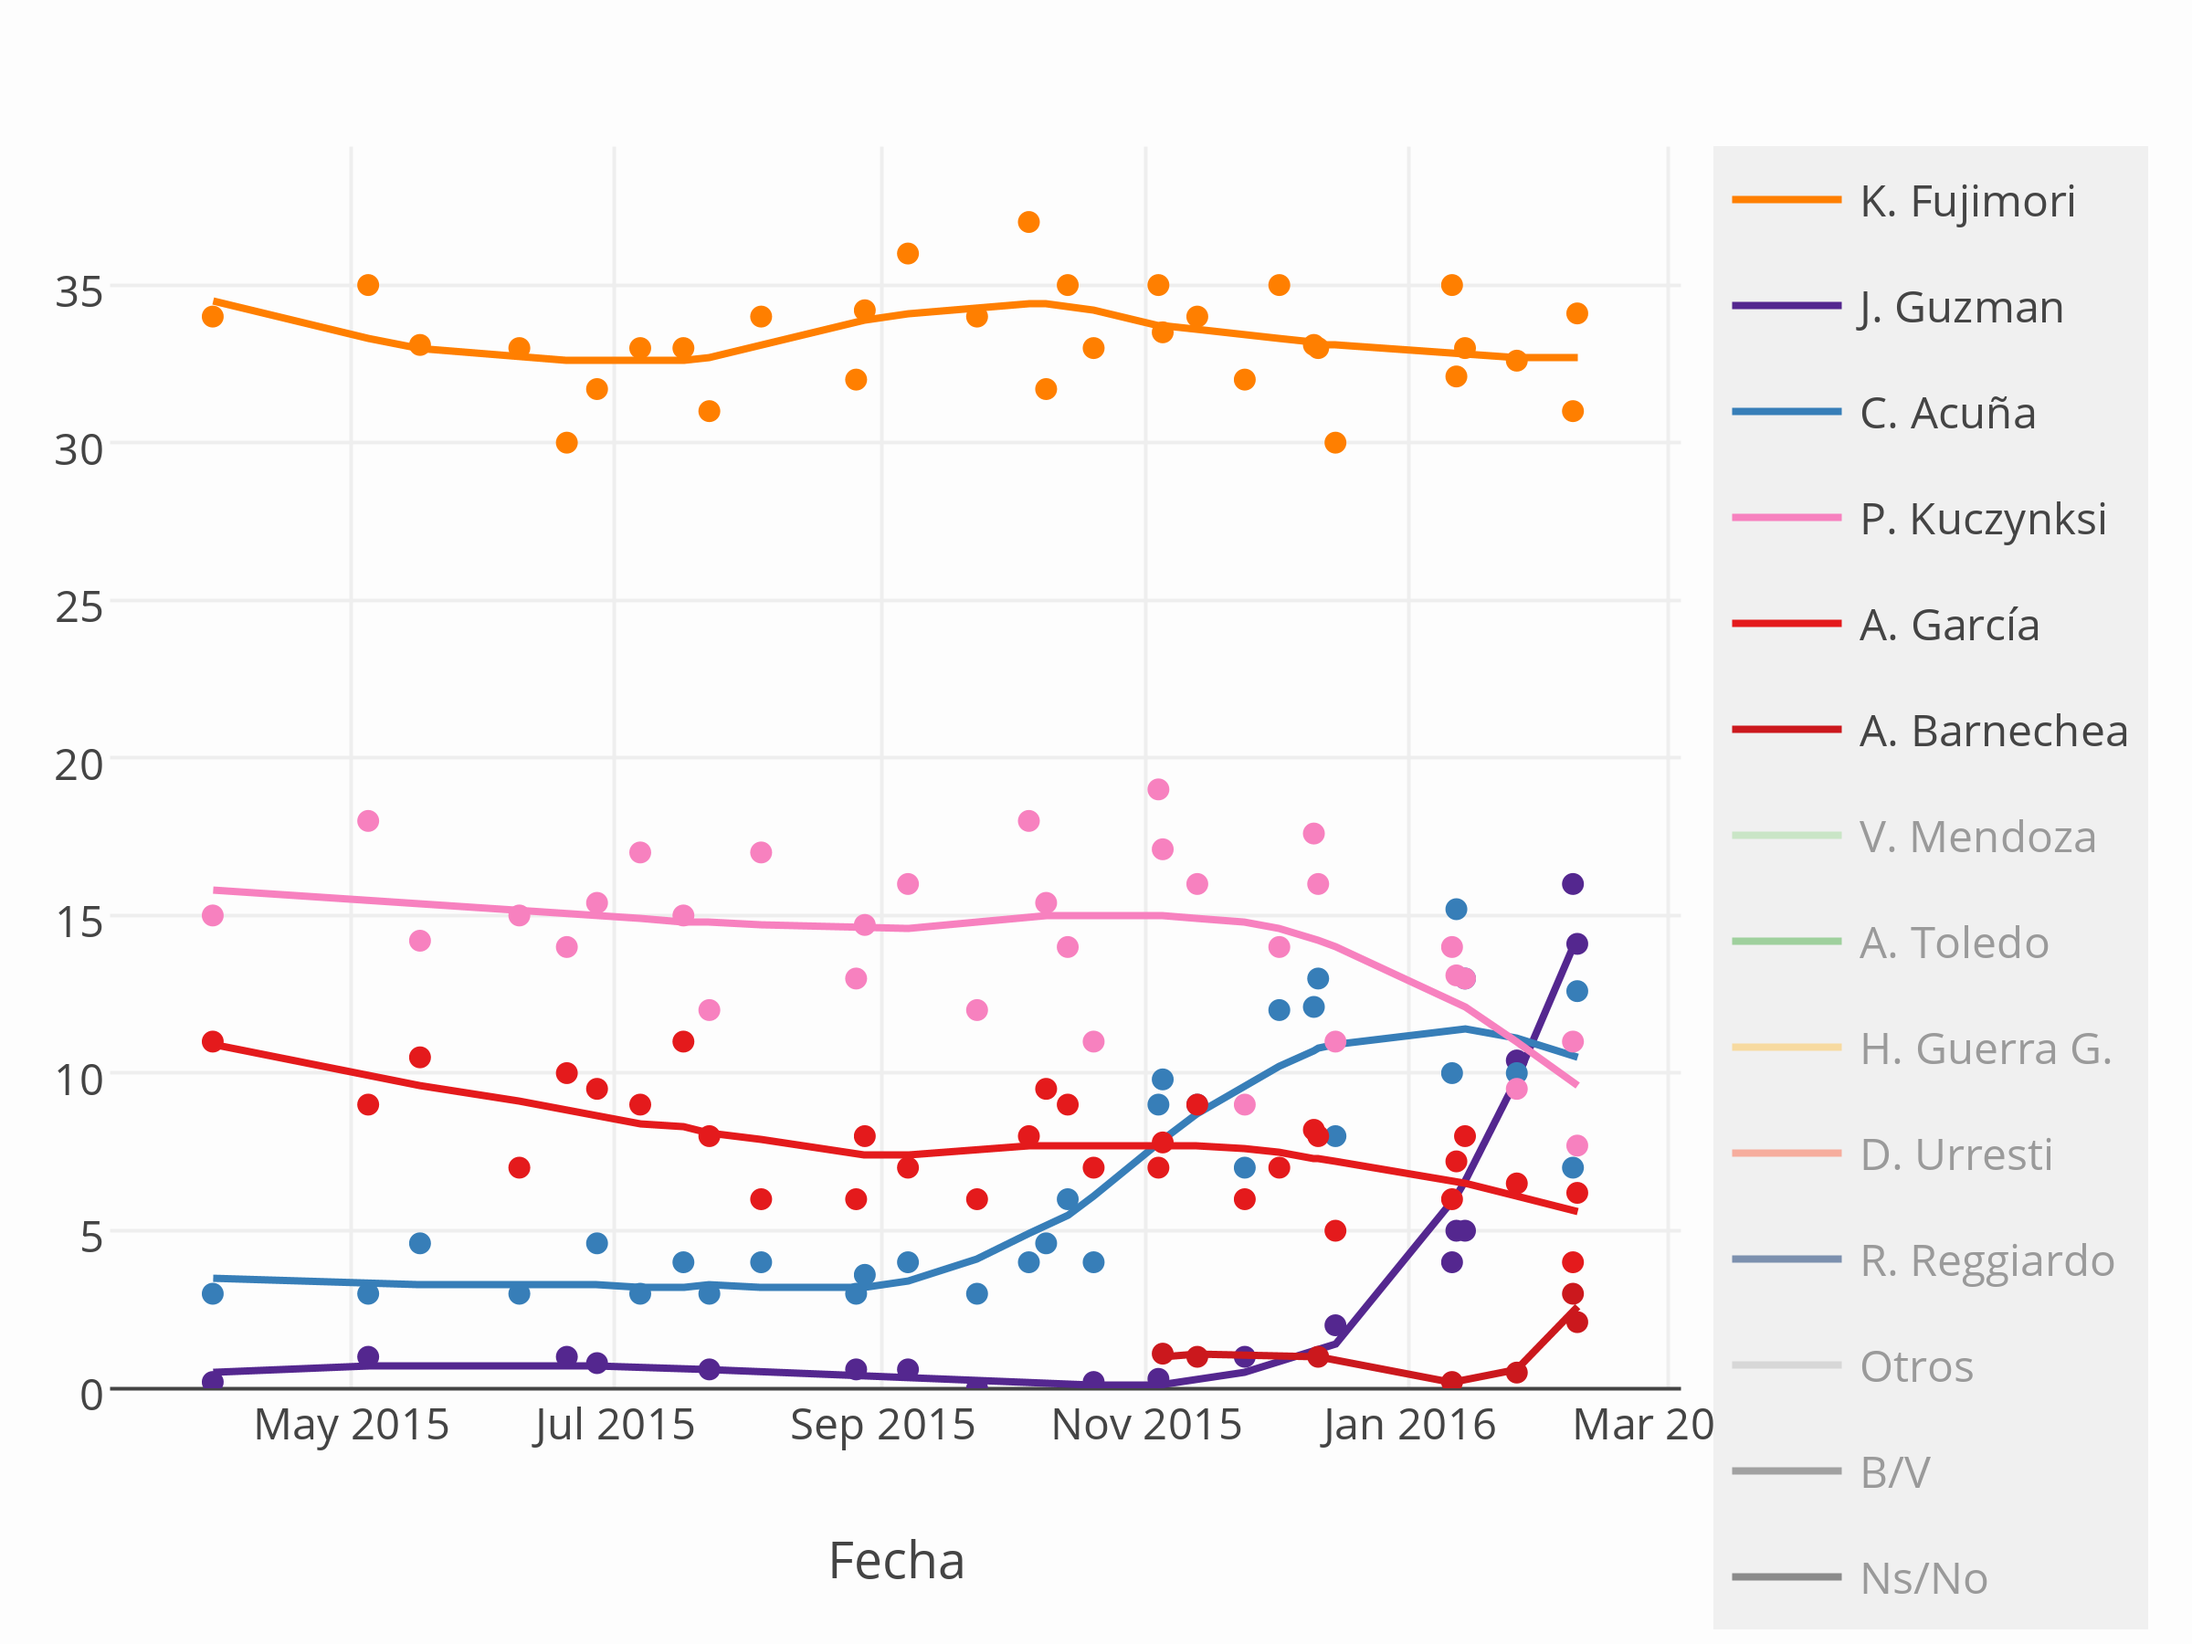
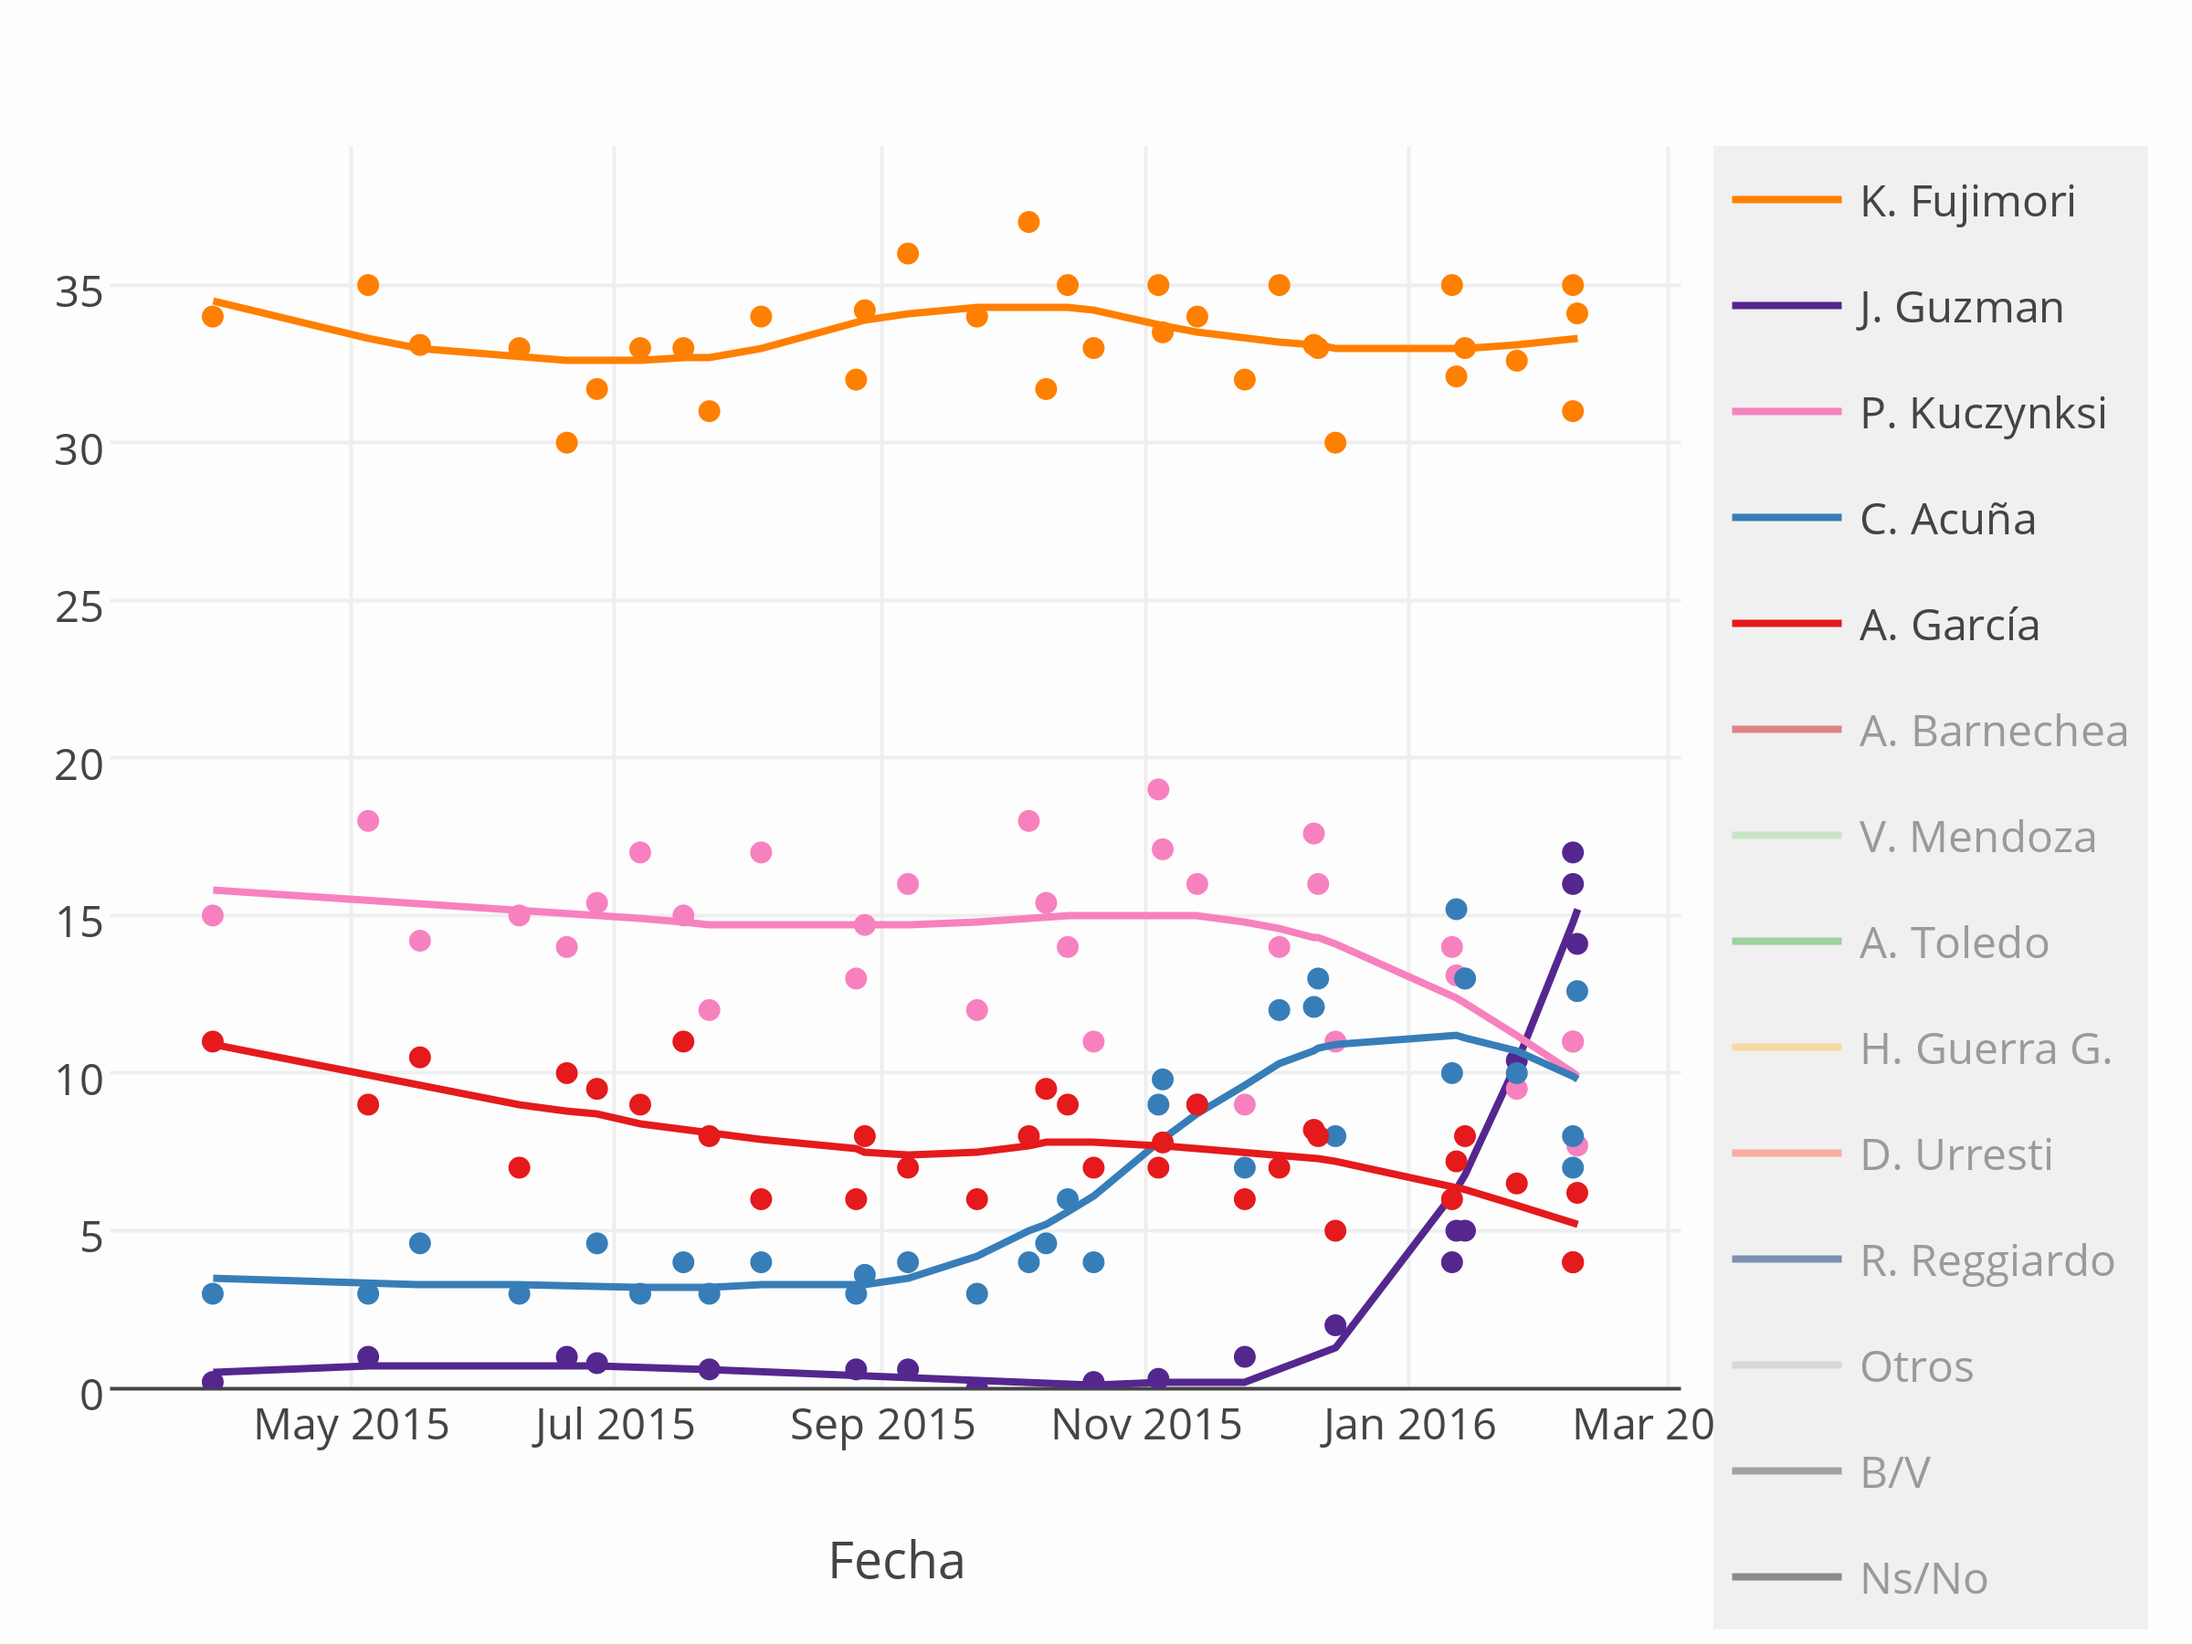
graficoActualizado

diff --git a/_posts/2016-02-13-Elecciones-presidenciales-2016.md b/_posts/2016-02-13-Elecciones-presidenciales-2016.md
@@ -24,7 +24,7 @@ breadcrumb: true
 
 
 
-El siguiente gráfico combina las encuestas de intención de voto. Actualizado el 11-02-2016.
+El siguiente gráfico combina las encuestas de intención de voto. Actualizado el 13-02-2016.
 
 
 
